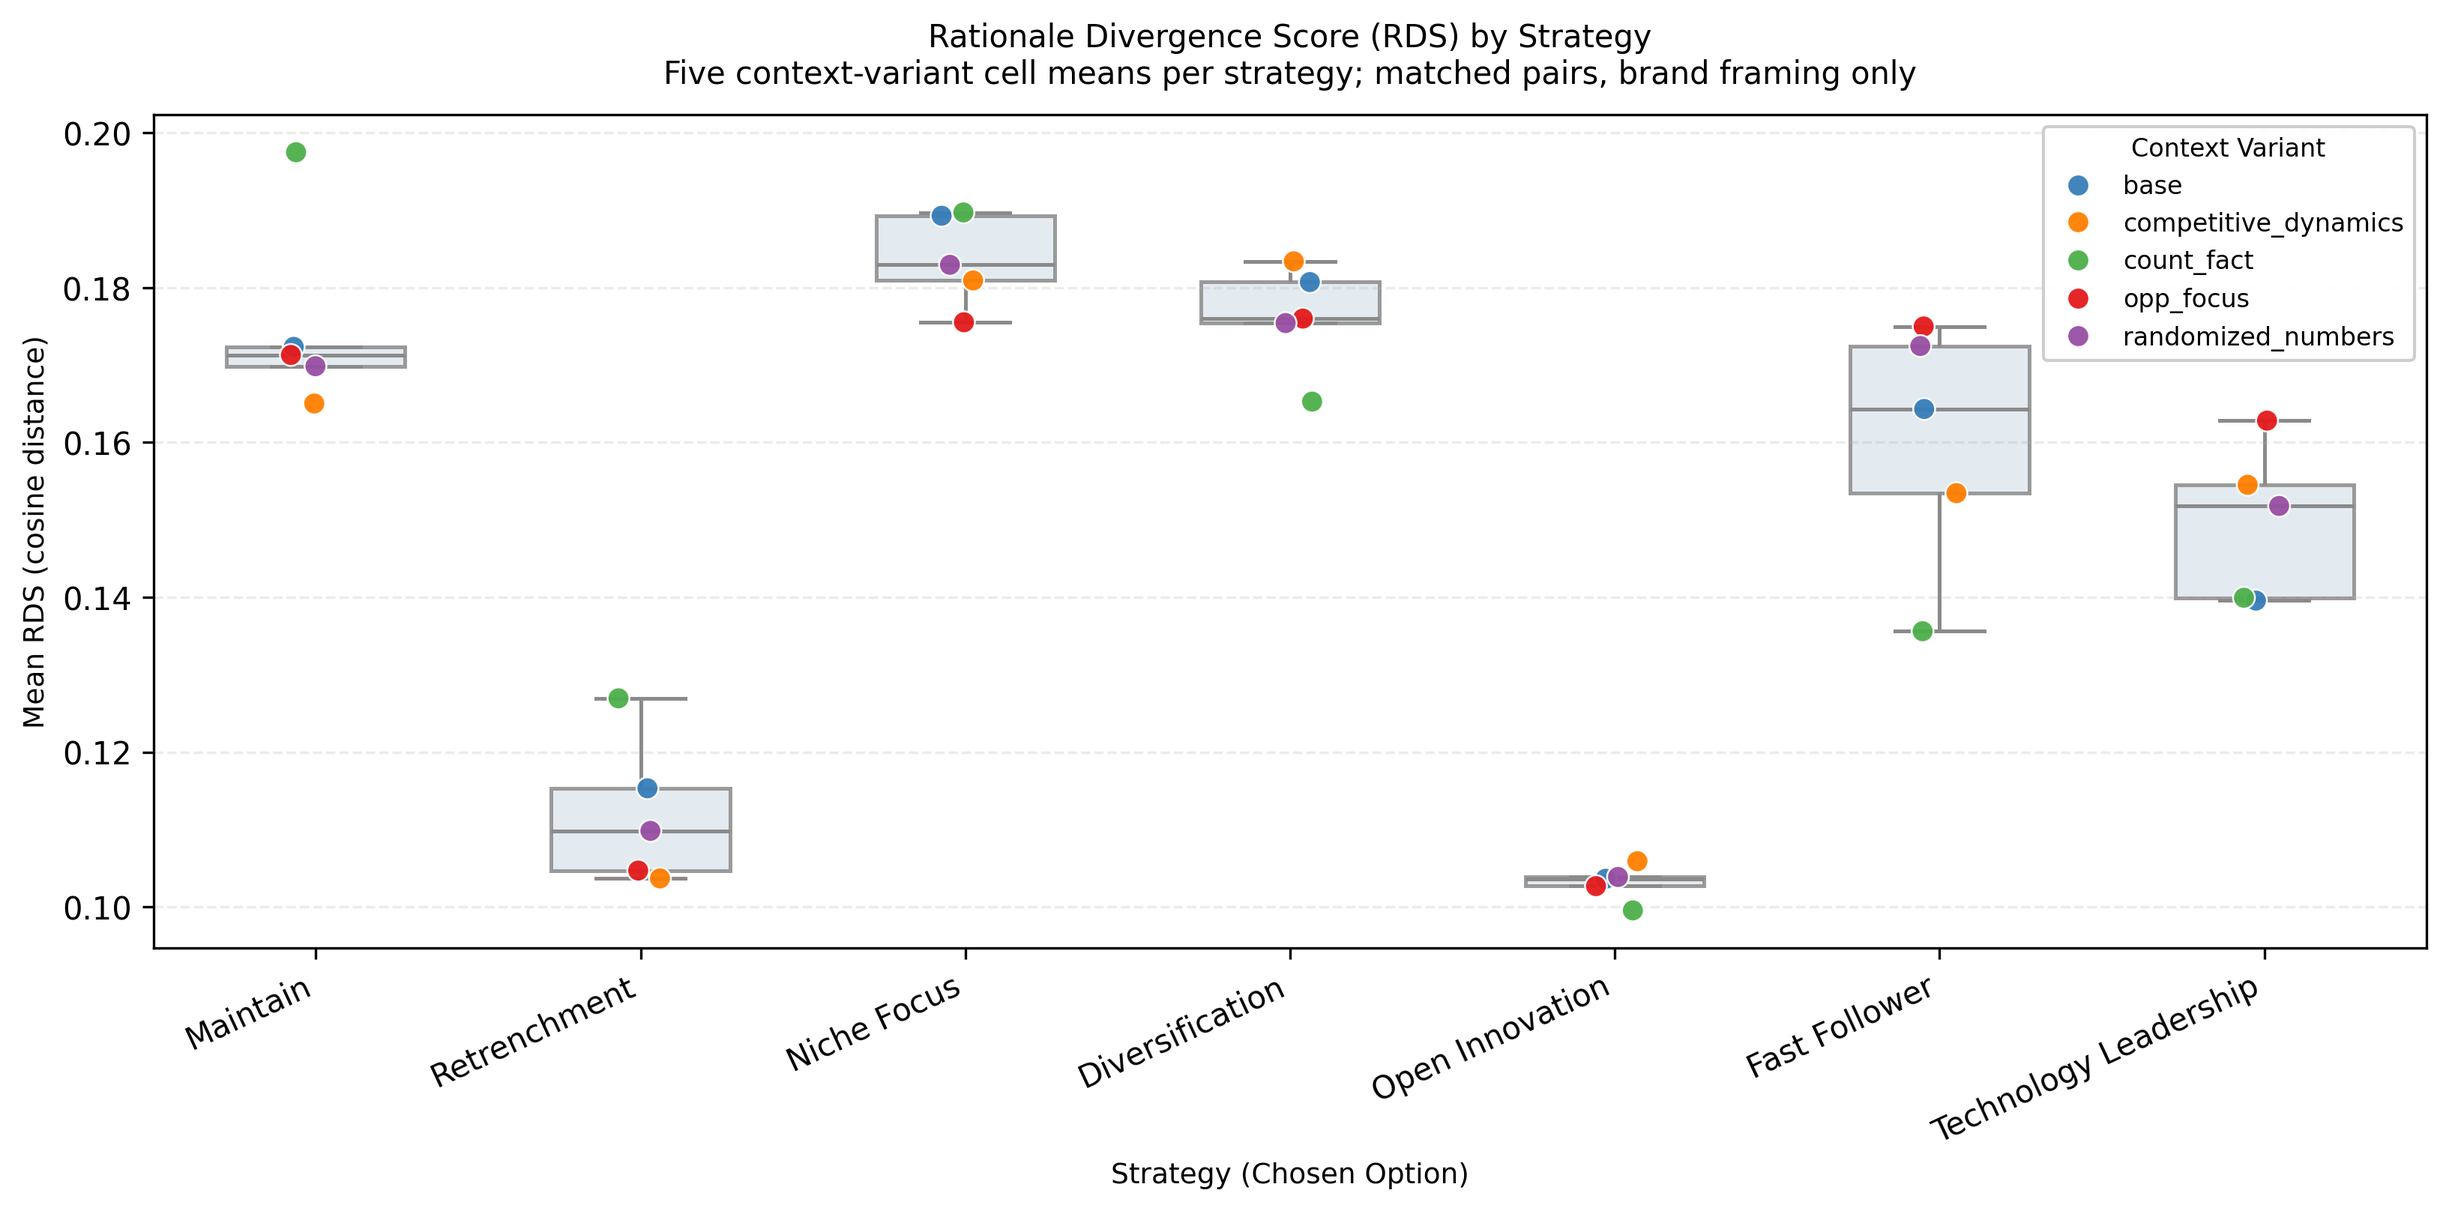
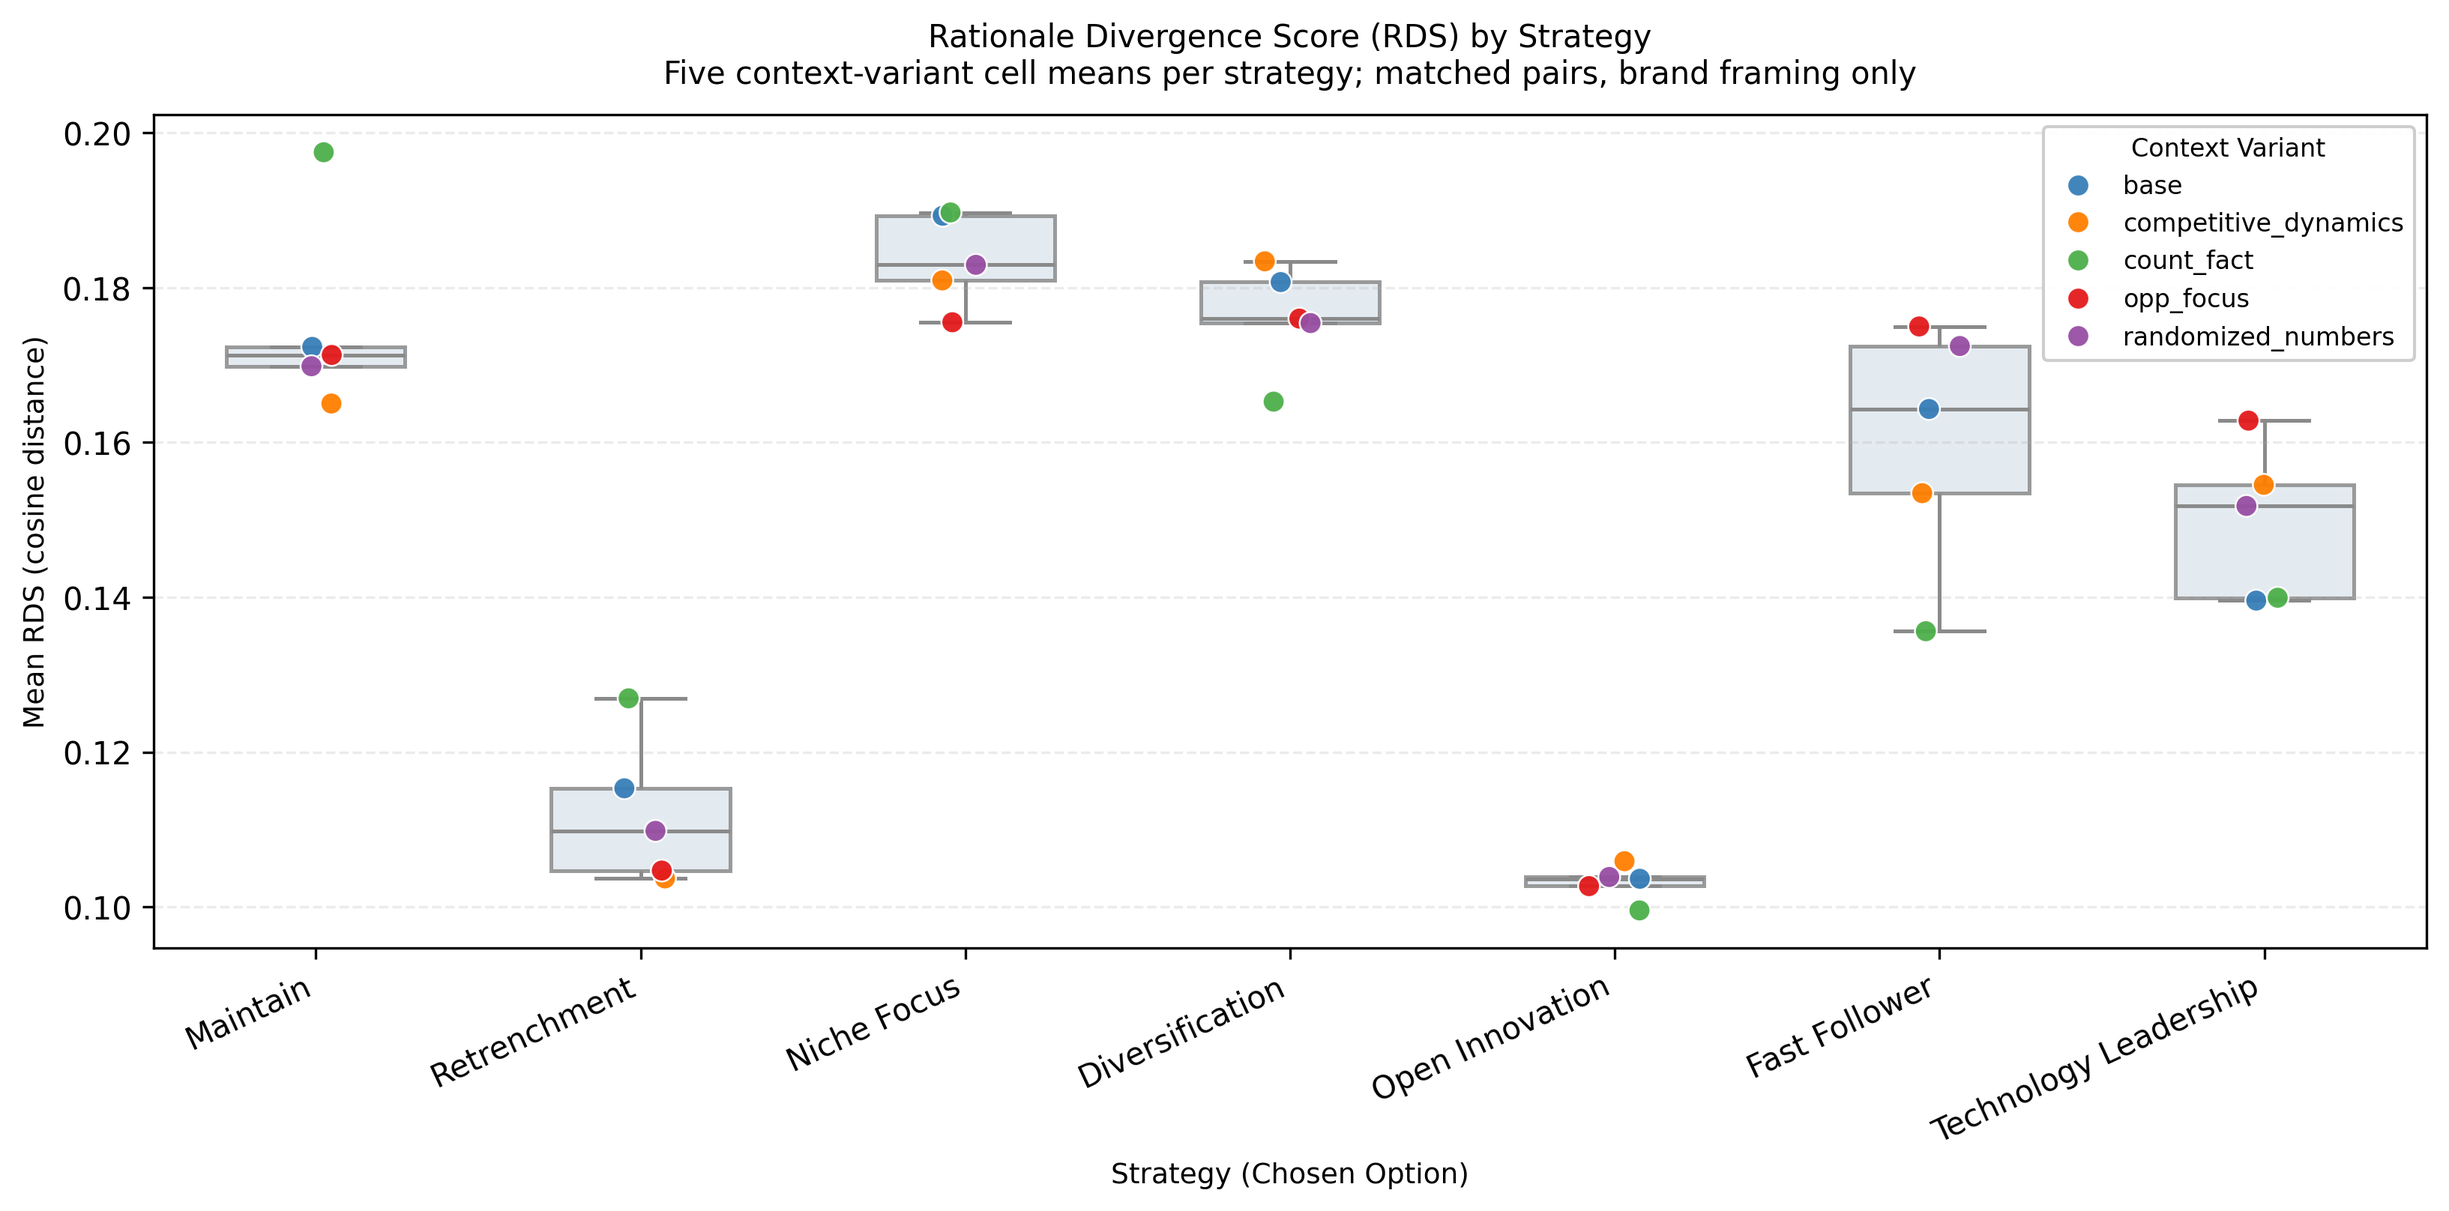
Add RDS bootstrap CIs in text and restore Fig. 7 boxplot style.
Separate Method A bar output from paper Fig. 4, restore CI/stars on Fig. 4, and report RDS inference in §5.5 prose while keeping the context-variant boxplot for Fig. 7.

diff --git a/result_analysis/rds_by_strategy_ci.py b/result_analysis/rds_by_strategy_ci.py
@@ -1,0 +1,240 @@
+"""
+Bootstrap 95% CI, p-values, and FDR for mean RDS by strategy (§5.5, Fig. 7).
+
+Method A (condition × strategy cells): each cell is
+(Model, Temperature, scenario, Num Context, context_variant, strategy).
+Within each cell, RDS is averaged over matched pairs; strategy-level means
+macro-average cell means with equal weight per cell. Bootstrap resamples
+cells with replacement (10,000 replicates).
+
+Overall mean RDS uses the same cell macro-average (all strategies pooled).
+
+H0 for strategy tests: mean RDS = 0 (two-sided bootstrap p-value; FDR
+across seven strategies).
+
+Outputs
+-------
+  final_results/summary/rationale_rds_overall_ci.csv
+  final_results/summary/rationale_rds_by_strategy_ci.csv
+  final_results/plots/eval_rationale_rds_strategy_boxplot.png   (boxplot; stats in CSV/text only)
+
+Usage
+-----
+  python -m result_analysis.rds_by_strategy_ci
+"""
+
+from __future__ import annotations
+
+import os
+from typing import List, Tuple
+
+import numpy as np
+import pandas as pd
+
+try:
+    from result_analysis.model_behavioral_profile import valid_strategies
+    from result_analysis.rationale_analysis import load_rationale_data, _bh_fdr
+    from result_analysis.rationale_rds_analysis import (
+        PLOTS_DIR,
+        SUMMARY_DIR,
+        _build_rds_pair_df,
+        _legacy_heatmap_csv_to_matrix,
+        _plot_rds_strategy_boxplot,
+        _prepare_df,
+    )
+except ImportError:
+    from model_behavioral_profile import valid_strategies
+    from rationale_analysis import load_rationale_data, _bh_fdr
+    from rationale_rds_analysis import (
+        CONTEXT_COLORS,
+        CONTEXT_ORDER,
+        PLOTS_DIR,
+        STRATEGY_ORDER,
+        SUMMARY_DIR,
+        _build_rds_heatmap_df,
+        _build_rds_pair_df,
+        _legacy_heatmap_csv_to_matrix,
+        _prepare_df,
+    )
+
+BOOTSTRAP_N = 10_000
+BOOTSTRAP_SEED = 42
+NPZ_PATH = os.path.join(SUMMARY_DIR, "rationale_rds_calibration_distances.npz")
+CELL_COLS = [
+    "Model",
+    "Temperature",
+    "scenario",
+    "Num Context",
+    "context_variant",
+    "strategy",
+]
+
+
+def load_rds_pairs_with_distances(input_dir: str = "infer_results") -> pd.DataFrame:
+    """Rebuild matched pair table and attach saved RDS distances (no re-embedding)."""
+    if not os.path.exists(NPZ_PATH):
+        raise FileNotFoundError(
+            f"Missing {NPZ_PATH}. Run: python -m result_analysis.rationale_rds_analysis"
+        )
+    df = _prepare_df(load_rationale_data(input_dir=input_dir))
+    pairs = _build_rds_pair_df(df)
+    rds = np.load(NPZ_PATH)["rds"]
+    if len(rds) != len(pairs):
+        raise ValueError(
+            f"Pair count mismatch: pairs={len(pairs):,}, npz={len(rds):,}. "
+            "Re-run rationale_rds_analysis."
+        )
+    pairs = pairs.copy()
+    pairs["rds"] = rds
+    return pairs
+
+
+def build_cell_level_rds(pairs: pd.DataFrame) -> pd.DataFrame:
+    """One row per condition×strategy cell with mean RDS."""
+    return (
+        pairs.groupby(CELL_COLS, dropna=False)["rds"]
+        .mean()
+        .reset_index(name="mean_rds")
+    )
+
+
+def _bootstrap_pvalue_two_sided(observed: float, boot_samples: np.ndarray) -> float:
+    if observed >= 0:
+        p = 2.0 * float(np.mean(boot_samples <= 0))
+    else:
+        p = 2.0 * float(np.mean(boot_samples >= 0))
+    return min(p, 1.0)
+
+
+def _sig_stars(q_fdr: float) -> str:
+    if q_fdr < 0.001:
+        return "***"
+    if q_fdr < 0.01:
+        return "**"
+    if q_fdr < 0.05:
+        return "*"
+    return ""
+
+
+def _bootstrap_cell_means(
+    cell_df: pd.DataFrame,
+    value_col: str = "mean_rds",
+    *,
+    n_boot: int = BOOTSTRAP_N,
+    seed: int = BOOTSTRAP_SEED,
+) -> Tuple[float, float, float, np.ndarray, int]:
+    """Macro mean over cells with bootstrap resampling."""
+    vals = cell_df[value_col].astype(float).to_numpy()
+    n_cells = len(vals)
+    observed = float(np.mean(vals))
+    rng = np.random.default_rng(seed)
+    boot = np.empty(n_boot, dtype=float)
+    for b in range(n_boot):
+        idx = rng.integers(0, n_cells, n_cells)
+        boot[b] = float(np.mean(vals[idx]))
+    ci_lo = float(np.percentile(boot, 2.5))
+    ci_hi = float(np.percentile(boot, 97.5))
+    return observed, ci_lo, ci_hi, boot, n_cells
+
+
+def compute_rds_overall_ci(
+    cell_df: pd.DataFrame,
+    *,
+    n_boot: int = BOOTSTRAP_N,
+    seed: int = BOOTSTRAP_SEED,
+) -> pd.DataFrame:
+    observed, ci_lo, ci_hi, boot, n_cells = _bootstrap_cell_means(
+        cell_df, n_boot=n_boot, seed=seed,
+    )
+    p = _bootstrap_pvalue_two_sided(observed, boot)
+    return pd.DataFrame([{
+        "mean_rds_macro": observed,
+        "ci_lower": ci_lo,
+        "ci_upper": ci_hi,
+        "p_value": p,
+        "n_cells": n_cells,
+    }])
+
+
+def compute_rds_by_strategy_ci(
+    cell_df: pd.DataFrame,
+    *,
+    n_boot: int = BOOTSTRAP_N,
+    seed: int = BOOTSTRAP_SEED,
+) -> pd.DataFrame:
+    """Bootstrap cell-level macro means per strategy."""
+    rows: List[dict] = []
+    for i, strat in enumerate(valid_strategies):
+        sub = cell_df[cell_df["strategy"] == strat]
+        if sub.empty:
+            continue
+        observed, ci_lo, ci_hi, boot, n_cells = _bootstrap_cell_means(
+            sub, n_boot=n_boot, seed=seed + i,
+        )
+        rows.append({
+            "Strategy": strat,
+            "mean_rds": observed,
+            "ci_lower": ci_lo,
+            "ci_upper": ci_hi,
+            "p_value": _bootstrap_pvalue_two_sided(observed, boot),
+            "n_cells": n_cells,
+        })
+    out = pd.DataFrame(rows)
+    if out.empty:
+        return out
+    out["q_value_fdr"] = _bh_fdr(out["p_value"].to_numpy())
+    out["sig_stars"] = out["q_value_fdr"].map(lambda q: _sig_stars(float(q)))
+    return out
+
+
+def plot_rds_strategy_boxplot_fig7(save_dir: str = PLOTS_DIR) -> str:
+    """Paper Fig. 7: boxplot of context-variant cell means (no CI/stars on figure)."""
+    path = os.path.join(SUMMARY_DIR, "rationale_rds_heatmap.csv")
+    if not os.path.exists(path):
+        raise FileNotFoundError(
+            f"Missing {path}. Run: python -m result_analysis.rationale_rds_analysis"
+        )
+    heatmap_df = _legacy_heatmap_csv_to_matrix(pd.read_csv(path))
+    out = os.path.join(save_dir, "eval_rationale_rds_strategy_boxplot.png")
+    _plot_rds_strategy_boxplot(heatmap_df, out)
+    return out
+
+
+def run(input_dir: str = "infer_results") -> Tuple[pd.DataFrame, pd.DataFrame]:
+    os.makedirs(SUMMARY_DIR, exist_ok=True)
+    os.makedirs(PLOTS_DIR, exist_ok=True)
+
+    print("Loading RDS pairs (cached distances)...")
+    pairs = load_rds_pairs_with_distances(input_dir=input_dir)
+    print(f"  Pairs: {len(pairs):,}")
+
+    cell_df = build_cell_level_rds(pairs)
+    print(f"  Condition×strategy cells: {len(cell_df):,}")
+
+    overall_df = compute_rds_overall_ci(cell_df)
+    overall_df["mean_rds_pairs"] = float(pairs["rds"].mean())
+    overall_df["median_rds_pairs"] = float(pairs["rds"].median())
+    overall_df["n_pairs"] = int(len(pairs))
+
+    ci_df = compute_rds_by_strategy_ci(cell_df)
+
+    out_overall = os.path.join(SUMMARY_DIR, "rationale_rds_overall_ci.csv")
+    overall_df.to_csv(out_overall, index=False)
+    print(f"Saved → {out_overall}")
+
+    out_strat = os.path.join(SUMMARY_DIR, "rationale_rds_by_strategy_ci.csv")
+    ci_df.to_csv(out_strat, index=False)
+    print(f"Saved → {out_strat}")
+
+    out_plot = plot_rds_strategy_boxplot_fig7()
+    print(f"Saved → {out_plot}")
+
+    print("\nOverall (macro cell mean):")
+    print(overall_df.to_string(index=False))
+    print("\nBy strategy:")
+    print(ci_df.to_string(index=False))
+    return overall_df, ci_df
+
+
+if __name__ == "__main__":
+    run()

diff --git a/result_analysis/specific_generic_delta_ci.py b/result_analysis/specific_generic_delta_ci.py
@@ -161,14 +161,18 @@ def plot_specific_generic_delta_bars(
     right = max(0.0, float(np.nanmax(ci_hi))) + 0.40 * span
     ax.set_xlim(left, right)
 
-    gap = 0.015 * span
+    gap = 0.03 * span
     for i, (v, star) in enumerate(zip(vals, stars)):
-        label_x = v + (gap if v >= 0 else -gap)
-        ha = "left" if v >= 0 else "right"
-        ax.text(label_x, i, f"{v:+.2f}", va="center", ha=ha, fontsize=8, color="#333")
-        if star:
-            star_x = ci_hi[i] + 0.04 * span if v >= 0 else ci_lo[i] - 0.04 * span
-            ax.text(star_x, i, star, va="center", ha="center", fontsize=11, color="#111")
+        # Place a single combined label just beyond the error-bar cap so the
+        # value and stars never overlap the bar or the CI whiskers.
+        text = f"{v:+.2f}{(' ' + star) if star else ''}"
+        if v >= 0:
+            label_x = ci_hi[i] + gap
+            ha = "left"
+        else:
+            label_x = ci_lo[i] - gap
+            ha = "right"
+        ax.text(label_x, i, text, va="center", ha=ha, fontsize=8, color="#222")
 
     ax.set_yticks(y)
     ax.set_yticklabels(labels, fontsize=9)

diff --git a/result_analysis/fr_directionality_overall.py b/result_analysis/fr_directionality_overall.py
@@ -31,7 +31,7 @@ difference is explicit:
 
 Outputs:
   - final_results/summary/fr_directionality_overall_compare_by_strategy.csv  (A + B merged)
-  - final_results/plots/eval_fr_directionality_bars__ALL.png                 (Method A only)
+  - final_results/plots/eval_fr_directionality_bars__ALL_methodA.png          (Method A only; NOT the paper Fig. 4, which carries CI/stars from specific_generic_delta_ci.py)
   - final_results/plots/eval_fr_directionality_bars__ALL_compare.png         (A vs B grouped)
   - final_results/summary/fr_directionality_by_context_variant_long.csv      (interaction long)
   - final_results/summary/fr_directionality_by_context_variant_matrix.csv   (heatmap matrix)
@@ -367,7 +367,7 @@ def plot_fr_directionality_bars_overall(
     fr_dir_df: pd.DataFrame,
     save_dir: str,
     top_k: int = 8,
-    filename: str = "eval_fr_directionality_bars__ALL.png",
+    filename: str = "eval_fr_directionality_bars__ALL_methodA.png",
 ):
     """
     Single, paper-style bar plot for Method A (condition-weighted) Δp over the whole

diff --git a/ESWA_paper_harvard_0708.md b/ESWA_paper_harvard_0708.md
@@ -213,11 +213,11 @@ These findings indicate that LLM-generated strategic rationales are not neutral 
 
 To quantify the degree of narrative divergence beyond keyword inspection, we introduce the Rationale Divergence Score (RDS)—the cosine distance between SentenceTransformer embeddings of matched Generic and Specific rationale pairs. RDS ∈ [0, 1], where 0 indicates semantically identical justifications and 1 indicates maximal divergence. Because pairs are matched on all experimental conditions (model, temperature, scenario, context variant, context load, and chosen strategy), any RDS above zero reflects the effect of framing alone on the explanatory narrative.
 
-Across 141,209 matched pairs, the overall mean RDS is 0.157 (median = 0.146, SD = 0.090), confirming that the rationale shift documented in Table 3 is not confined to a narrow set of keywords but constitutes a pervasive, semantically measurable divergence. To interpret this magnitude, we compare RDS against two reference distributions using the same embedding pipeline and preprocessing (brand-term masking only). All pair types are defined within run-level cells—model, temperature, context load, scenario, and context variant held fixed—with one random pair per eligible cell for each baseline (seed = 42).
+Across 141,209 matched pairs, the overall mean RDS is 0.157 (median = 0.146, SD = 0.090); macro-averaged over 2,343 condition×strategy cells, mean RDS = 0.156 (95% CI [0.154, 0.159]), confirming that the rationale shift documented in Table 3 is not confined to a narrow set of keywords but constitutes a pervasive, semantically measurable divergence. To interpret this magnitude, we compare RDS against two reference distributions using the same embedding pipeline and preprocessing (brand-term masking only). All pair types are defined within run-level cells—model, temperature, context load, scenario, and context variant held fixed—with one random pair per eligible cell for each baseline (seed = 42).
 
 The repeat-noise lower bound (n = 5,790; median = 0.101) additionally fixes chosen strategy and firm framing and contrasts two independent repeats, isolating decoding variability absent intentional manipulation. The strategy-ceiling upper bound (n = 1,702; median = 0.364) fixes firm framing but compares rationales from two different chosen strategies, approximating embedding distance when the strategic commitment itself changes. RDS holds repeat and strategy fixed and varies Generic vs. Specific framing alone.
 
-Fig. 6 overlays the three distributions. RDS (median = 0.146) lies clearly above repeat noise and well below the cross-strategy ceiling, indicating that brand framing induces semantically measurable narrative shift beyond stochastic repetition, yet does not reframe justifications to the same extent as changing the chosen strategy itself. Fig. 7 summarizes mean RDS by strategy, with the five context-variant cell means overlaid.
+Fig. 6 overlays the three distributions. RDS (median = 0.146) lies clearly above repeat noise and well below the cross-strategy ceiling, indicating that brand framing induces semantically measurable narrative shift beyond stochastic repetition, yet does not reframe justifications to the same extent as changing the chosen strategy itself. Cell-level bootstrap 95% confidence intervals (10,000 resamples) and Benjamini–Hochberg FDR correction confirm that macro-averaged mean RDS is reliably distinguishable from zero for all seven strategies (all FDR *q* < .001; strategy-level means and CIs are reported below). Fig. 7 visualizes how these strategy-level means distribute across context variants.
 
 ![RDS_calibration_histogram](final_results/plots/eval_rationale_rds_calibration_histogram.png)
 
@@ -225,9 +225,9 @@ Fig. 6. Rationale embedding distance: framing (RDS) vs. repeat noise vs. cross-s
 
 ![RDS_strategy_boxplot](final_results/plots/eval_rationale_rds_strategy_boxplot.png)
 
-Fig. 7. Mean Rationale Divergence Score (RDS) by strategy. Boxes span the five context-variant cell means; colored points indicate base, competitive_dynamics, count_fact, opp_focus, and randomized_numbers (matched pairs; same strategy chosen, only brand framing varies).
+Fig. 7. Mean Rationale Divergence Score (RDS) by strategy. Boxes span the five context-variant cell means; colored points indicate base, competitive\_dynamics, count\_fact, opp\_focus, and randomized\_numbers (matched pairs; same strategy chosen, only brand framing varies). Macro mean RDS and bootstrap 95% CIs are reported in the text.
 
-Three structural patterns emerge from Fig. 7. First, RDS differs substantially across strategies. Niche Focus (mean RDS = 0.185) and Diversification (0.177) show the highest narrative divergence, while Open Innovation (0.103) and Retrenchment (0.113) show the lowest—a nearly two-fold spread across the strategy axis. This indicates that the degree of framing-induced narrative shift is conditioned on strategic content.
+Three structural patterns emerge from Fig. 7. First, RDS differs substantially across strategies: all seven exhibit FDR-significant macro mean RDS (all FDR *q* < .001). Maintain (0.183; 95% CI [0.176, 0.190]) and Diversification (0.175; 95% CI [0.168, 0.182]) show the highest narrative divergence, while Open Innovation (0.121; 95% CI [0.115, 0.127]) and Retrenchment (0.130; 95% CI [0.123, 0.138]) show the lowest—a roughly 1.5-fold spread across the strategy axis. This indicates that the degree of framing-induced narrative shift is conditioned on strategic content.
 
 Second, context variants do shift RDS within a strategy, but the size of that shift is strategy-dependent rather than uniform. For Open Innovation the five context means are nearly coincident (span ≈ 0.01), whereas for Fast Follower they range from 0.136 to 0.175 (span ≈ 0.039), with Technology Leadership and Retrenchment intermediate (span ≈ 0.024). Context is therefore a second-order factor layered on the strategy-driven baseline, with the room it has to move the rationale set by the chosen strategy.
 
